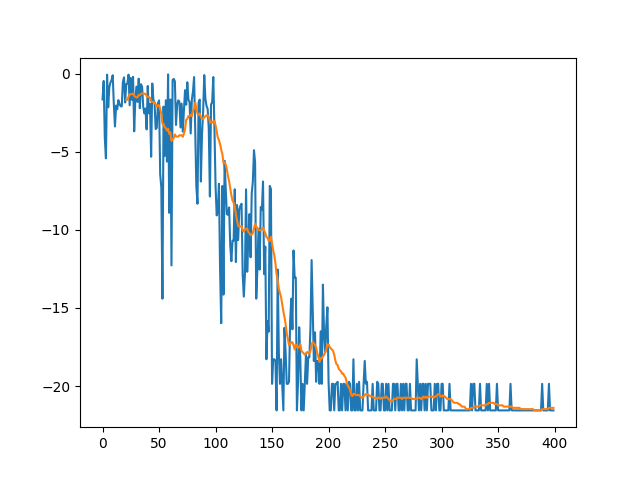
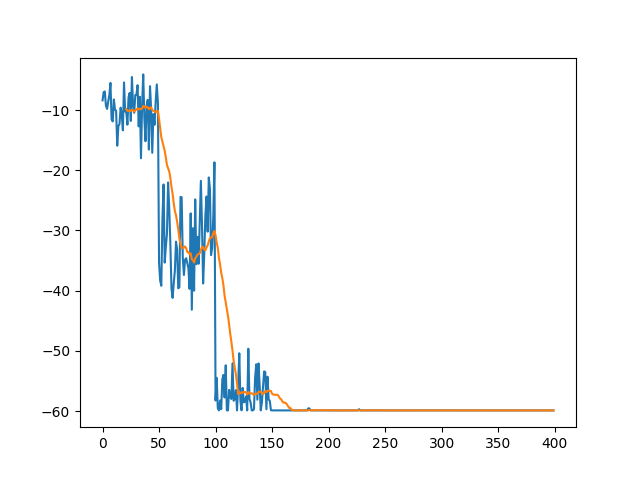
Works with multiple episode saves

diff --git a/lennardJ/fixedGrid.py b/lennardJ/fixedGrid.py
@@ -4,6 +4,7 @@ import time
 from matplotlib import pyplot as plt
 from IPython import embed
 
+from plot_episode_summaries import *
 from LJEnvironment import *
 from LJNetwork import Qnetwork
 
@@ -42,8 +43,8 @@ def get_all_points_not_in_gridlist(all_points,gridlist):
 
     
 
-N_atoms = 15
-max_n_episodes = 400
+N_atoms = 10
+max_n_episodes = 160
 gamma = 0.99
 
 r0 = 1.0
@@ -88,11 +89,22 @@ sess.run(init)
 #                              NextFeature: nextFeat.reshape((1,100))})
 
 all_points = []
+# shear = np.array([[1,-1],[0,1]])
 for x in range(-5,6):
     for y in range(-5,6):
-        all_points.append([x,y+x])
+        # all_points.append(np.dot(shear,np.array([x,y])))
+        all_points.append([x,y])
+
         
 all_points = np.array(all_points)
+
+# fig = plt.figure()
+# ax = fig.gca()
+# ax.scatter(all_points.T[0],all_points.T[1])
+# ax.set_xlim([-10,10])
+# ax.set_ylim([-10,10])
+# fig.show()
+# stop
 
 n_episodes = 0
 QtargetList = []
@@ -100,18 +112,27 @@ CurrentFeatList = []
 NewFeatList = []
 Elist = []
 running_mean = []
+
+molecule_build_list = []
+feature_build_list = []
+slist_build_list = []
+probs_build_list = []
+episode_summary_list = []
+
+episode_probe = [1,21,41,61,81,101,121,141,max_n_episodes+1]
+probe_count = 0
 while n_episodes < max_n_episodes:
 
     # Start with a single atom at the center
     gridlist = np.array([[0,0]])
 
-    if np.mod(n_episodes,50) == 0 and n_episodes != 0:
+    if np.mod(n_episodes,20) == 0 and n_episodes != 0:
         QtargetList = np.array(QtargetList).reshape((len(QtargetList),1))
         CurrentFeatList = np.array(CurrentFeatList)
         NewFeatList = np.array(NewFeatList)
         print('Training!')
         m = 0
-        while m < 20:
+        while m < 5:
             sess.run(trainOp,feed_dict={CurrentFeature: CurrentFeatList,
                                         NextFeature: NewFeatList,
                                         Qnext: QtargetList})
@@ -151,6 +172,12 @@ while n_episodes < max_n_episodes:
         # probs = (Qlist-np.min(Qlist))/np.sum(Qlist-np.min(Qlist))
         probs = softmax(Qlist)
 
+        if n_episodes==episode_probe[probe_count]:
+            molecule_build_list.append(gridlist)
+            feature_build_list.append(CurrentFeat)
+            slist_build_list.append(slist)
+            probs_build_list.append(probs)
+        
         # Sample new position according to Q values. slist contains indexes of
         # all_positions that are not in gridlist, i.e. no two atoms can be on top
         # of each other
@@ -180,12 +207,15 @@ while n_episodes < max_n_episodes:
         # If all atoms are placed, calculate the energy and set the negative to reward
         if n == N_atoms-2:
             E =  LJEnv.getEnergy(np.array([LJEnv.gridToXY(grid) for grid in gridlist]))
-            r = -np.power(E,3)/10
+            r = -np.power(E,3)
             Elist.append(E)
             if E == min(Elist):
                 best_E = E
                 best_grid = gridlist
 
+            if n_episodes==episode_probe[probe_count]:
+                molecule_build_list.append(gridlist)
+                feature_build_list.append(NewFeat)
 
         else:
             r = 0
@@ -202,6 +232,21 @@ while n_episodes < max_n_episodes:
     if n_episodes > 20:
         running_mean.append(np.mean(Elist[n_episodes-20:]))
 
+    if n_episodes==episode_probe[probe_count]:
+        
+        episode_summary_list.append([molecule_build_list,
+                                     feature_build_list,
+                                     slist_build_list,
+                                     probs_build_list])
+        
+        
+        molecule_build_list = []
+        feature_build_list = []
+        slist_build_list = []
+        probs_build_list = []
+        probe_count +=1 
+        
+
     print('Episode: %i/%i \t Current energy: %4.4f \t Best energy = %4.4f' %(n_episodes,max_n_episodes,
                                                                              E,
                                                                              best_E))
@@ -212,14 +257,13 @@ while n_episodes < max_n_episodes:
         
 
         
-
+plot_episode_summaries(episode_summary_list,all_points,N_atoms,LJEnv,Elist,'test')
 
         
-
+stop
 
 xylist = np.array([LJEnv.gridToXY(grid) for grid in best_grid])
-
-
+all_points_XY = np.array([LJEnv.gridToXY(point) for point in all_points])
 
 
 
@@ -227,17 +271,66 @@ xylist = np.array([LJEnv.gridToXY(grid) for grid in best_grid])
 
 fig = plt.figure()
 ax = fig.gca()
-ax.set_xlim([-5,5])
-ax.set_ylim([-5,5])
+ax.set_xlim([-7,7])
+ax.set_ylim([-7,7])
+ax.plot(all_points_XY.T[0],all_points_XY.T[1],'go',alpha=0.5)
 ax.plot(xylist.T[0],xylist.T[1],'bo')
 
-fig.savefig('gridPlot_3_atoms')
+
+fig.savefig('gridPlot_5_atoms')
 
 fig = plt.figure()
 ax = fig.gca()
 ax.plot(Elist)
 ax.plot(np.array(range(max_n_episodes-21))+21,running_mean)
-fig.savefig('learning_curve_3_atoms')
+fig.savefig('learning_curve_5_atoms')
 
 
 
+
+fig,ax = plt.subplots(N_atoms,2,figsize = (4,4/2*N_atoms))
+
+
+# molecule_build_list = np.array(molecule_build_list)
+# feature_build_list = np.array(feature_build_list)
+# slist_build_list = np.array(slist_build_list)
+# probs_build_list = np.array(probs_build_list)
+
+
+molecule_axes = ax.T[0]
+feature_axes = ax.T[1]
+
+
+for i,axis in enumerate(molecule_axes):
+    axis.set_xlim([-8,8])
+    axis.set_ylim([-8,8])
+
+
+    if i<N_atoms-1:
+        sp = np.array([LJEnv.gridToXY(point) for point in all_points[slist_build_list[i]]])
+        # Create colors from probs list
+        c = []
+        max_p = np.max(probs_build_list[i])
+
+        
+        for p in probs_build_list[i]:
+            col = 0.8*(1-p)
+            c.append([col,col,col])
+        axis.scatter(sp.T[0],sp.T[1],c=np.array(c).reshape((len(sp),3)))
+        
+    
+    xylist = np.array([LJEnv.gridToXY(grid) for grid in molecule_build_list[i]])
+    axis.scatter(xylist.T[0],xylist.T[1])
+
+max_feat = np.max(feature_build_list)
+    
+for i,axis in enumerate(feature_axes):
+    axis.set_ylim([0,max_feat])
+    axis.plot(feature_build_list[i],'r')
+    
+
+
+
+
+fig.tight_layout()
+fig.savefig('structure_feature_%i_atoms_%i_episodes' %(N_atoms,episode_probe),dpi=400)

diff --git a/lennardJ/plot_episode_summaries.py b/lennardJ/plot_episode_summaries.py
@@ -1,0 +1,88 @@
+from matplotlib import pyplot as plt
+import matplotlib.gridspec as gridspec
+from IPython import embed
+import numpy as np
+
+def plot_episode_summaries(eps_sum,all_points,N_atoms,LJEnv,Elist,name):
+    """
+
+    """
+    probes = len(eps_sum)
+    fig = plt.figure(figsize = (4*probes,4/2*N_atoms+2))
+    gs = gridspec.GridSpec(N_atoms+2,2*probes)
+
+    
+    learn_ax = fig.add_subplot(gs[0:2,:])
+    learn_ax.set_xlim([0,len(Elist)])
+    learn_ax.plot(Elist)
+    
+    
+    ax_list = []
+    for i in range(N_atoms):
+        for j in range(2*probes):
+            print(i,j)
+            ax_list.append(fig.add_subplot(gs[i+2,j]))
+        
+    ax = np.array(ax_list)# .reshape((N_atoms*probes,2)).T
+
+    # ax = fig.subplots(N_atoms,2*probes)
+    # ax= ax.T
+
+    # stop
+    
+    for i,summary in enumerate(eps_sum):
+        molecule_axes = []
+        feature_axes = []        
+        
+        for n in range(N_atoms*probes*2):
+            if np.mod(n,2*probes)==2*i:
+                molecule_axes.append(ax[n])
+            if np.mod(n,2*probes)==2*i+1:
+                feature_axes.append(ax[n])
+
+        
+
+
+        mb_list = summary[0]
+        fb_list = summary[1]
+        sb_list = summary[2]
+        pb_list = summary[3]
+
+        # Plot molecules and probabilities
+        for j,axis in enumerate(molecule_axes):
+            axis.set_xlim([-8,8])
+            axis.set_ylim([-8,8])
+
+
+            if j<N_atoms-1:
+                sp = np.array([LJEnv.gridToXY(point) for point in all_points[sb_list[j]]])
+                # Create colors from probs list
+                c = []
+                max_p = np.max(pb_list[j])
+
+        
+                for p in pb_list[j]:
+                    col = 0.8*(1-p)
+                    c.append([col,col,col])
+                axis.scatter(sp.T[0],sp.T[1],c=np.array(c).reshape((len(sp),3)))
+        
+            print(i,j)
+            xylist = np.array([LJEnv.gridToXY(grid) for grid in mb_list[j]])
+            print('I made it here')
+            axis.scatter(xylist.T[0],xylist.T[1])
+
+        max_feat = np.max(fb_list)
+    
+        for j,axis in enumerate(feature_axes):
+            axis.set_ylim([0,max_feat*1.1])
+            axis.plot(fb_list[j],'r')
+
+
+
+    fig.tight_layout()
+    fig.savefig(name,dpi=400)
+    
+
+    
+
+    

diff --git a/lennardJ/LJNetwork.py b/lennardJ/LJNetwork.py
@@ -10,14 +10,14 @@ def Qnetwork():
     # Qgraph = tf.Graph()
     
     # with Qgraph.as_default():
-    CurrentFeature = tf.placeholder(tf.float32,shape=[None,20])
+    CurrentFeature = tf.placeholder(tf.float32,shape=[None,40])
     layer = tf.contrib.layers.fully_connected(inputs=CurrentFeature,
                                               num_outputs = 100)
     CurrentInput = tf.contrib.layers.fully_connected(inputs=layer,
                                                      activation_fn = None,
                                                      num_outputs = 10)
 
-    NextFeature = tf.placeholder(tf.float32,shape=[None,20])
+    NextFeature = tf.placeholder(tf.float32,shape=[None,40])
     layer = tf.contrib.layers.fully_connected(inputs=NextFeature,
                                               num_outputs = 100)
     NextInput = tf.contrib.layers.fully_connected(inputs=layer,

diff --git a/lennardJ/LJEnvironment.py b/lennardJ/LJEnvironment.py
@@ -12,7 +12,7 @@ class LJEnvironment():
         """
         """
         self.params = params[0]
-        self.fpf = fingerprintFeature(rcut = 4,binwidth=0.2)
+        self.fpf = fingerprintFeature(rcut = 4*2,binwidth=0.2,sigma=0.2)
         
         
     def gridToXY(self,gridCoord):
@@ -27,6 +27,7 @@ class LJEnvironment():
         v1 = np.array([r0,0])
         v2 = np.array([np.cos(np.pi/3)*r0,np.sin(np.pi/3)*r0])
         xy = a1*v1 + a2*v2
+        
 
         return np.array(xy)        
 
